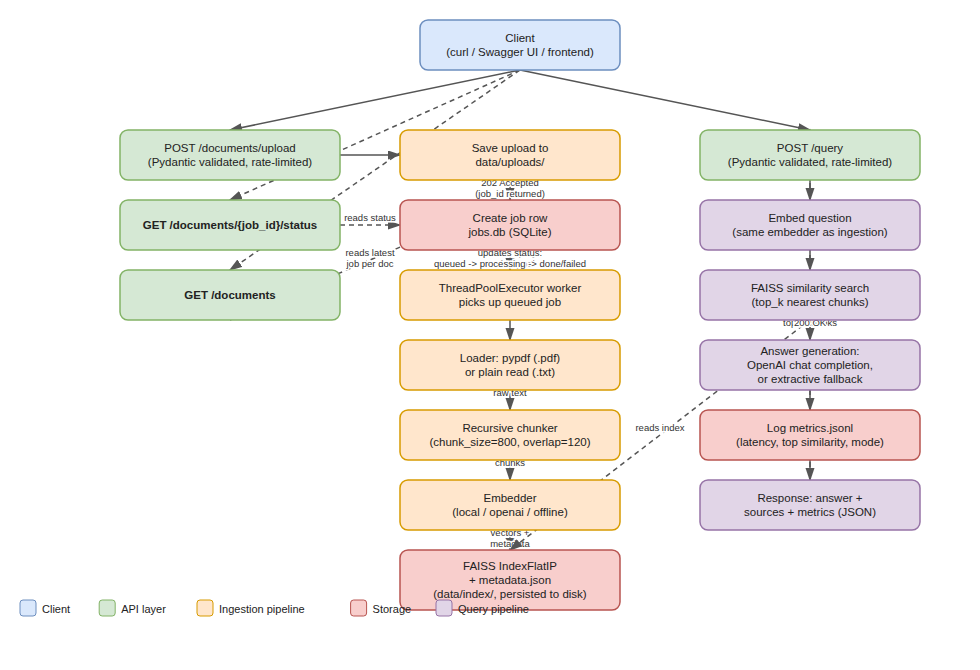
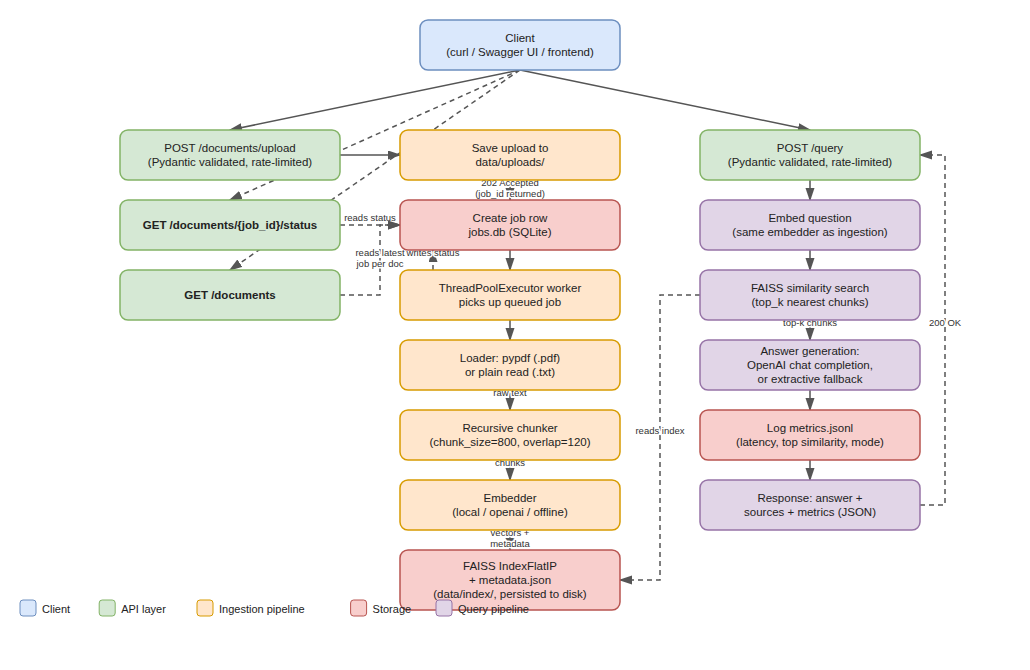
Fix architecture diagram edge routing
Several dashed status/lookup edges were being drawn as straight lines that
cut through unrelated boxes and overlapped adjacent labels. Route them
through clear corridors between columns instead, and shorten labels that
didn't fit in the tight ingestion-column gap.

diff --git a/scripts/generate_diagram.py b/scripts/generate_diagram.py
@@ -37,9 +37,11 @@ def add_node(x, y, w, h, label, colorkey):
     return i
 
 
-def add_edge(src, tgt, label="", dashed=False):
+def add_edge(src, tgt, label="", dashed=False, route=None):
+    """route: optional dict with exitX/exitY/entryX/entryY and a list of (x,y) waypoints,
+    used to steer an edge around boxes that sit between source and target."""
     i = nid()
-    edges.append((i, src, tgt, label, dashed))
+    edges.append((i, src, tgt, label, dashed, route))
     return i
 
 
@@ -79,23 +81,47 @@ add_edge(client, list_ep, dashed=True)
 # --- Ingestion flow ---
 add_edge(upload_ep, save_file)
 add_edge(save_file, job_store, "202 Accepted\n(job_id returned)")
-add_edge(job_store, worker, "picked up by\nworker pool")
+add_edge(job_store, worker)
 add_edge(worker, loader)
 add_edge(loader, chunker, "raw text")
 add_edge(chunker, embedder_ingest, "chunks")
 add_edge(embedder_ingest, faiss_store, "vectors +\nmetadata")
 add_edge(status_ep, job_store, "reads status", dashed=True)
-add_edge(list_ep, job_store, "reads latest\njob per doc", dashed=True)
-add_edge(worker, job_store, "updates status:\nqueued -> processing -> done/failed", dashed=True)
+add_edge(
+    list_ep,
+    job_store,
+    "reads latest\njob per doc",
+    dashed=True,
+    route={"exitX": 1, "exitY": 0.5, "entryX": 0, "entryY": 0.5, "points": [(380, 295), (380, 225)]},
+)
+add_edge(
+    worker,
+    job_store,
+    "writes status",
+    dashed=True,
+    route={"exitX": 0.15, "exitY": 0, "entryX": 0.15, "entryY": 1, "points": []},
+)
 
 # --- Query flow ---
 add_edge(query_ep, embed_query)
 add_edge(embed_query, similarity)
-add_edge(similarity, faiss_store, "reads index", dashed=True)
+add_edge(
+    similarity,
+    faiss_store,
+    "reads index",
+    dashed=True,
+    route={"exitX": 0, "exitY": 0.5, "entryX": 1, "entryY": 0.5, "points": [(660, 295), (660, 580)]},
+)
 add_edge(similarity, generation, "top-k chunks")
 add_edge(generation, metrics)
 add_edge(metrics, response)
-add_edge(response, query_ep, "200 OK", dashed=True)
+add_edge(
+    response,
+    query_ep,
+    "200 OK",
+    dashed=True,
+    route={"exitX": 1, "exitY": 0.5, "entryX": 1, "entryY": 0.5, "points": [(945, 505), (945, 155)]},
+)
 
 
 def build_xml():
@@ -111,18 +137,25 @@ def build_xml():
             f'<mxGeometry x="{x}" y="{y}" width="{w}" height="{h}" as="geometry" /></mxCell>'
         )
 
-    for i, src, tgt, label, dashed in edges:
+    for i, src, tgt, label, dashed, route in edges:
         extra = "dashed=1;" if dashed else ""
+        if route:
+            extra += f"exitX={route['exitX']};exitY={route['exitY']};exitDx=0;exitDy=0;"
+            extra += f"entryX={route['entryX']};entryY={route['entryY']};entryDx=0;entryDy=0;"
         style = EDGE_STYLE.format(extra=extra)
+        points_xml = ""
+        if route and route.get("points"):
+            pts = "".join(f'<mxPoint x="{px}" y="{py}" />' for px, py in route["points"])
+            points_xml = f'<Array as="points">{pts}</Array>'
         cells.append(
             f'<mxCell id="{i}" value="{escape(label)}" style="{style}" edge="1" parent="1" '
-            f'source="{src}" target="{tgt}"><mxGeometry relative="1" as="geometry" /></mxCell>'
+            f'source="{src}" target="{tgt}"><mxGeometry relative="1" as="geometry">{points_xml}</mxGeometry></mxCell>'
         )
 
     body = "\n".join(cells)
     return f'''<mxfile host="app.diagrams.net" agent="rag-qa-system/generate_diagram.py" version="24.7.0">
   <diagram name="RAG Architecture" id="rag-architecture">
-    <mxGraphModel dx="1400" dy="900" grid="1" gridSize="10" guides="1" tooltips="1" connect="1" arrows="1" fold="1" page="1" pageScale="1" pageWidth="1000" pageHeight="700" math="0" shadow="0">
+    <mxGraphModel dx="1400" dy="900" grid="1" gridSize="10" guides="1" tooltips="1" connect="1" arrows="1" fold="1" page="1" pageScale="1" pageWidth="1020" pageHeight="700" math="0" shadow="0">
       <root>
         {body}
       </root>
@@ -138,29 +171,50 @@ SVG_OUT = Path(__file__).parent.parent / "diagrams" / "architecture.svg"
 def build_svg():
     colors_hex = COLORS
     parts = [
-        '<svg xmlns="http://www.w3.org/2000/svg" width="960" height="650" '
-        'viewBox="0 0 960 650" font-family="Helvetica, Arial, sans-serif">',
-        '<rect width="960" height="650" fill="#ffffff"/>',
+        '<svg xmlns="http://www.w3.org/2000/svg" width="1010" height="650" '
+        'viewBox="0 0 1010 650" font-family="Helvetica, Arial, sans-serif">',
+        '<rect width="1010" height="650" fill="#ffffff"/>',
         '<defs><marker id="arrow" markerWidth="10" markerHeight="10" refX="8" refY="3" '
         'orient="auto" markerUnits="strokeWidth"><path d="M0,0 L0,6 L9,3 z" fill="#555555"/></marker></defs>',
     ]
 
     node_map = {i: (x, y, w, h) for i, x, y, w, h, label, colorkey in nodes}
 
+    def side_point(box, exitX, exitY):
+        bx, by, bw, bh = box
+        return bx + bw * exitX, by + bh * exitY
+
     # edges first (so nodes draw on top)
-    for i, src, tgt, label, dashed in edges:
-        sx, sy, sw, sh = node_map[src]
-        tx, ty, tw, th = node_map[tgt]
-        x1, y1 = sx + sw / 2, sy + sh
-        x2, y2 = tx + tw / 2, ty
-        # simple elbow if far apart horizontally and roughly same row band
-        if abs((sy + sh / 2) - (ty + th / 2)) < 5 and sx != tx:
-            x1, y1 = (sx + sw, sy + sh / 2) if sx < tx else (sx, sy + sh / 2)
-            x2, y2 = (tx, ty + th / 2) if sx < tx else (tx + tw, ty + th / 2)
+    for i, src, tgt, label, dashed, route in edges:
+        sbox = node_map[src]
+        tbox = node_map[tgt]
+        sx, sy, sw, sh = sbox
+        tx, ty, tw, th = tbox
+
+        if route:
+            x1, y1 = side_point(sbox, route["exitX"], route["exitY"])
+            x2, y2 = side_point(tbox, route["entryX"], route["entryY"])
+            waypoints = route.get("points", [])
+            path_points = [(x1, y1)] + waypoints + [(x2, y2)]
+        else:
+            x1, y1 = sx + sw / 2, sy + sh
+            x2, y2 = tx + tw / 2, ty
+            if abs((sy + sh / 2) - (ty + th / 2)) < 5 and sx != tx:
+                x1, y1 = (sx + sw, sy + sh / 2) if sx < tx else (sx, sy + sh / 2)
+                x2, y2 = (tx, ty + th / 2) if sx < tx else (tx + tw, ty + th / 2)
+            path_points = [(x1, y1), (x2, y2)]
+
         dash = ' stroke-dasharray="5,4"' if dashed else ""
-        parts.append(f'<path d="M{x1},{y1} L{x2},{y2}" stroke="#555555" stroke-width="1.5" fill="none"{dash} marker-end="url(#arrow)"/>')
+        d = "M" + " L".join(f"{px},{py}" for px, py in path_points)
+        parts.append(f'<path d="{d}" stroke="#555555" stroke-width="1.5" fill="none"{dash} marker-end="url(#arrow)"/>')
         if label:
-            mx, my = (x1 + x2) / 2, (y1 + y2) / 2
+            # place label near the midpoint of the path's longest segment for readability
+            mx, my = path_points[len(path_points) // 2]
+            if len(path_points) > 2:
+                mx = (path_points[1][0] + path_points[-2][0]) / 2 if len(path_points) > 2 else mx
+                my = (path_points[1][1] + path_points[-2][1]) / 2
+            else:
+                mx, my = (path_points[0][0] + path_points[1][0]) / 2, (path_points[0][1] + path_points[1][1]) / 2
             lines = label.split("\n")
             for li, line in enumerate(lines):
                 parts.append(

diff --git a/scripts/render_diagram_png.py b/scripts/render_diagram_png.py
@@ -12,7 +12,7 @@ HTML.write_text(f"<html><body style='margin:0'>{svg_content}</body></html>")
 
 with sync_playwright() as p:
     browser = p.chromium.launch(executable_path="/opt/pw-browsers/chromium-1194/chrome-linux/chrome")
-    page = browser.new_page(viewport={"width": 980, "height": 670})
+    page = browser.new_page(viewport={"width": 1030, "height": 670})
     page.goto(f"file://{HTML}")
     page.screenshot(path=str(PNG))
     browser.close()
